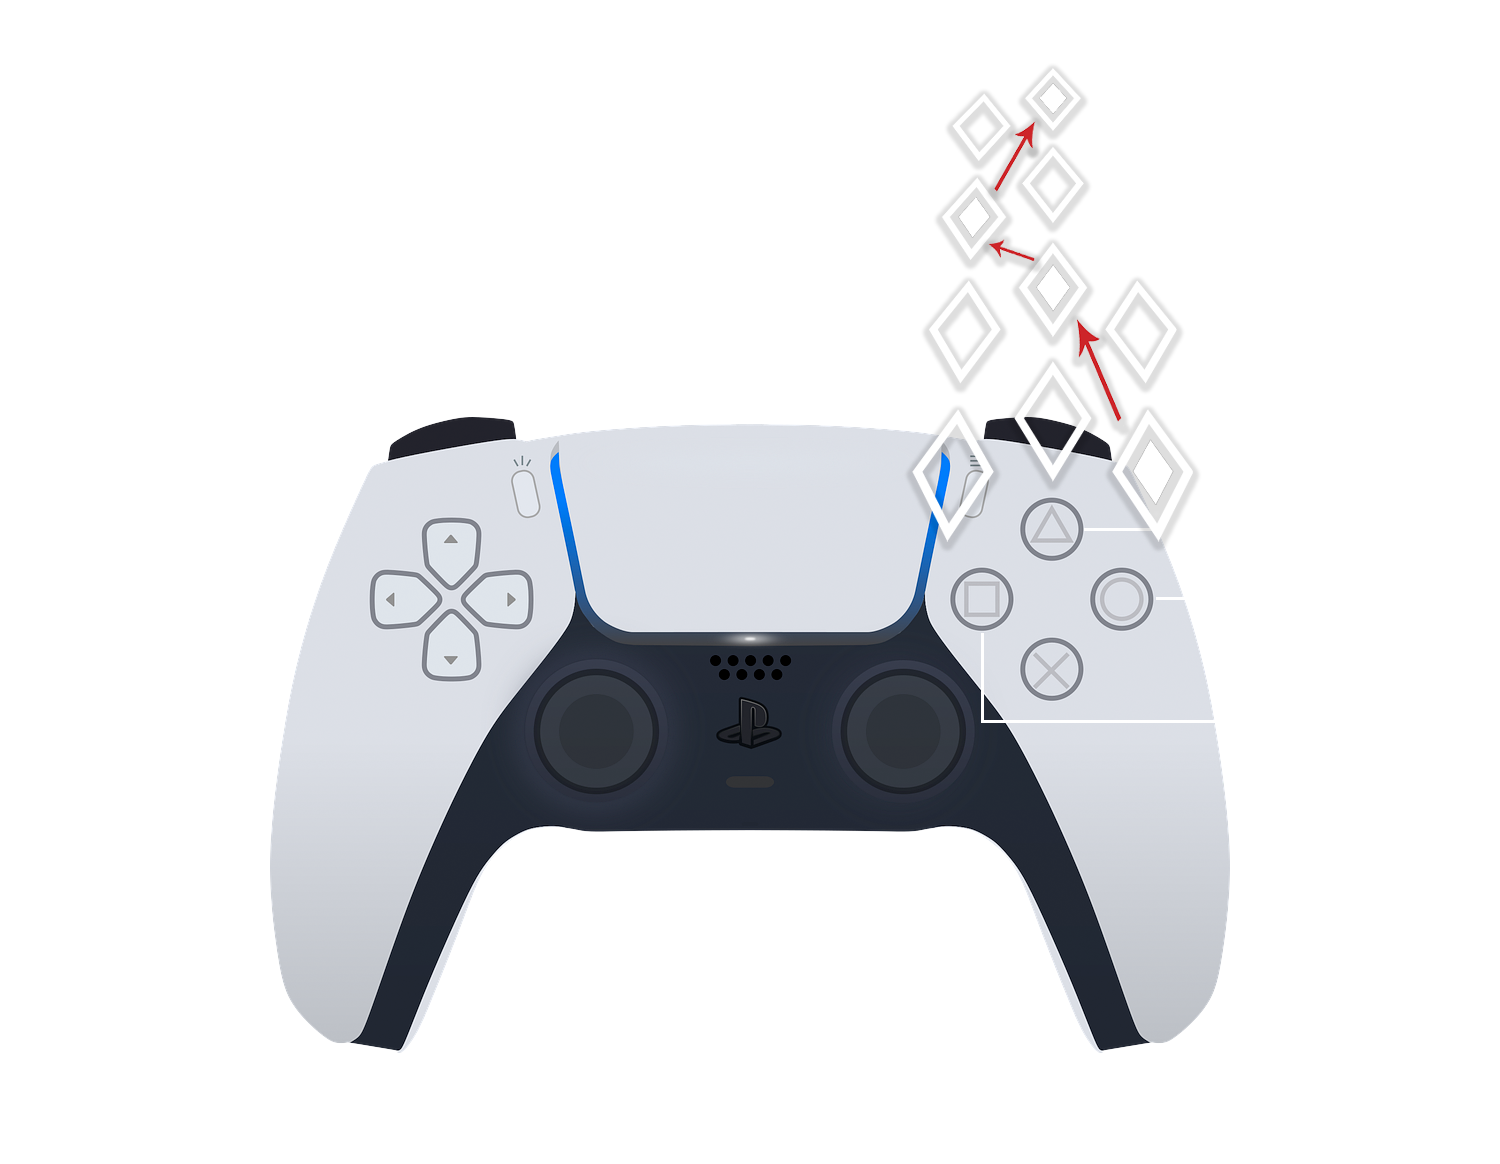
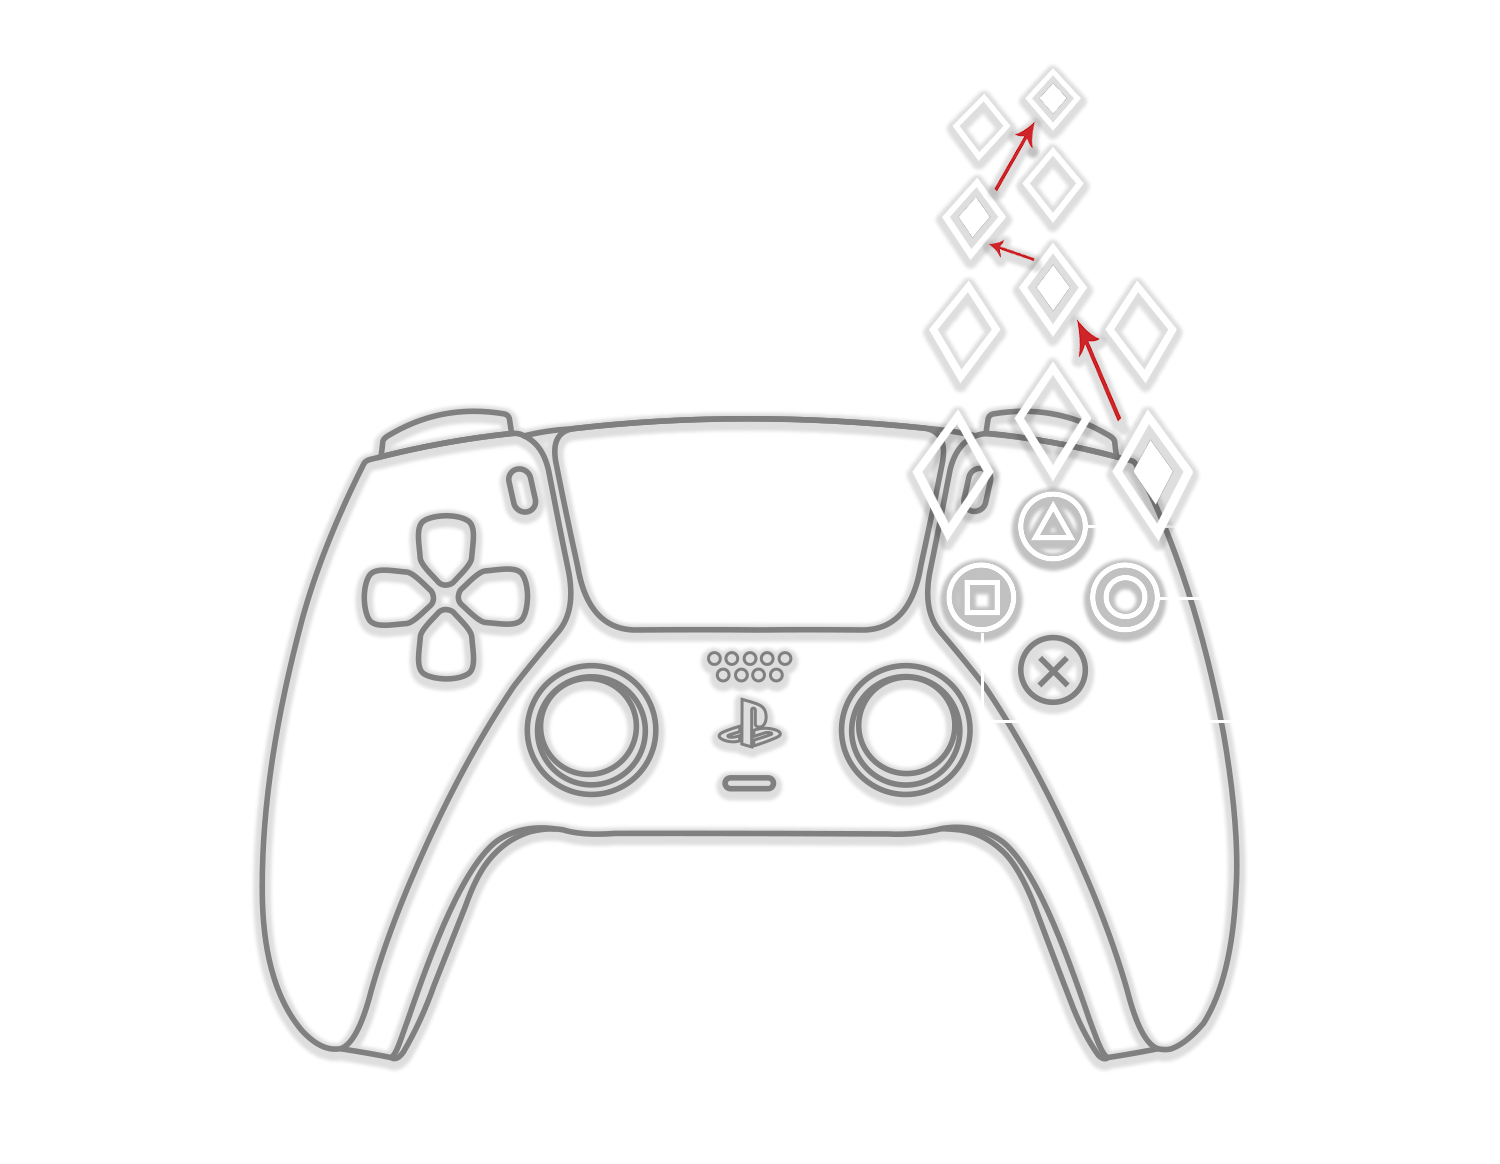
Updated controls schematics on Game page
Redone from scratch

Changed region(s): [[0.1533, 0.3402, 0.828, 0.9278]]

diff --git a/docs/Game.md b/docs/Game.md
@@ -25,7 +25,7 @@ Each character has a set of unique attack moves and an one-of gameplay ability. 
 <ThemedImage style={{width: "30rem", maxWidth: "100%"}} alt="Combos graph" sources={{    light: useBaseUrl('../static/img/game/Combos-light-mode.png'),    dark: useBaseUrl('../static/img/game/Combos-dark-mode.png'),  }}/>
 
 <br/>
-<TextStyled fontSize="0.8rem">Example of a combo chain going from heavy attack to medium to light and back to medium</TextStyled>
+<TextStyled fontSize="0.8rem" color="var(--ifm-color-primary)" fontWeight="bold">Example of a combo chain going from heavy attack to medium to light and back to medium</TextStyled>
 
 <br/>
 <br/>
@@ -38,6 +38,14 @@ Different stances combined with the physically-based sword-fighting of Hyperblad
 
 Characters are the base for stance system, but they also have have individual properties such as attack speed, movement speed and size. Coupled with the selection of a sword type, which also augments gameplay, the combat variability and playstyle customization in Hyperblade becomes substantial.
 
+<br/>
+<ThemedImage style={{width: "40rem", maxWidth: "100%" }} alt="Combos graph" sources={{    light: useBaseUrl('../static/img/game/Combos2-light-mode.png'),    dark: useBaseUrl('../static/img/game/Combos2-dark-mode.png'),  }}/>
+
+<br/>
+<TextStyled fontSize="0.8rem" color="var(--ifm-color-primary)" fontWeight="bold">The same combo chain from the above, expressed as a series of inputs on a PS5</TextStyled>
+
+<br/>
+<br/>
 <TextStyled fontSize="1.3rem" fontWeight="bold" >Directionality</TextStyled>
 <br/>
 One of the key elements of combat is directionality.
@@ -61,22 +69,14 @@ The player is also equipped with a block mechanic, which effectively blocks any 
 Hyperblade is built with real cross-play in mind. And the key principle is that controls are optimized for both PC and console gaming. Furthermore, the control scheme allows even for mobile gaming without serious disadvantages.
 The way we achieve that is by putting complex game mechanics and a huge amount of unique attack animations behind a very simple input layout. The next figure shows how controls look on each platform.
 
-<br/>
-<ThemedImage style={{width: "40rem", maxWidth: "100%" }} alt="Combos graph" sources={{    light: useBaseUrl('../static/img/game/Combos2-light-mode.png'),    dark: useBaseUrl('../static/img/game/Combos2-dark-mode.png'),  }}/>
 
-<br/>
-<TextStyled fontSize="0.8rem">The same combo chain from the above, expressed as a series of inputs on a PS5</TextStyled>
-
-<br/>
-<br/>
 
 The controls are meant to be responsive, intuitive, and snappy, while at the same time being simple enough that they can be mapped easily to any platform. Following schema show how controls are mapped to example targeted platforms.
 
-<br/>
-<ThemedImage style={{width: "40rem", maxWidth: "100%" }} alt="Combos graph" sources={{    light: useBaseUrl('../static/img/game/Combos2-light-mode.png'),    dark: useBaseUrl('../static/img/game/Combos2-dark-mode.png'),  }}/>
+<ThemedImage style={{width: "40rem", maxWidth: "100%" }} alt="Combos graph" sources={{    light: useBaseUrl('../static/img/game/Controls-light-mode.png'),    dark: useBaseUrl('../static/img/game/Controls-dark-mode.png'),  }}/>
 
 <br/>
-<TextStyled fontSize="0.8rem">to be replaced with PC/console/mobile controls schematics</TextStyled>
+<TextStyled fontSize="0.8rem" color="var(--ifm-color-primary)" fontWeight="bold">PC/console/mobile controls schematics</TextStyled>
 
 <br/>
 <br/>
